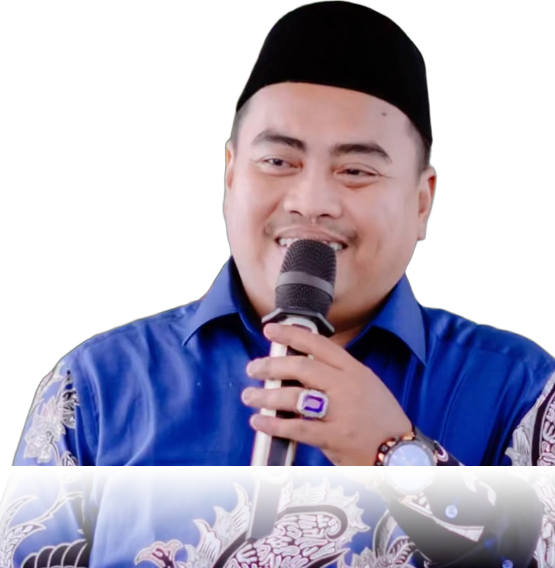
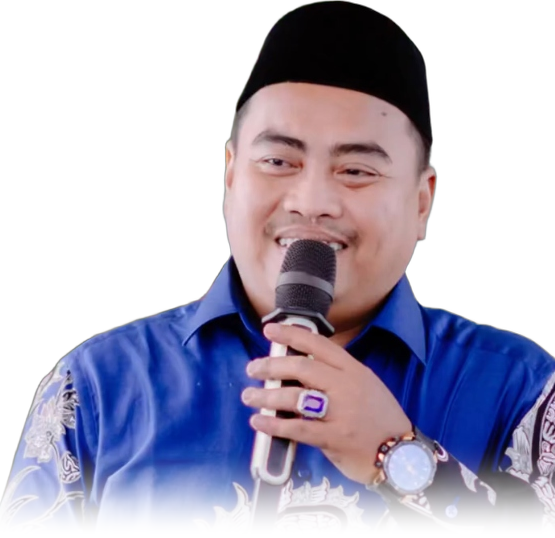
fix(pelindung): resolve uneven shadow and eliminate horizontal cut line with smooth cosine fade and calibrated drop-shadow

diff --git a/index.html b/index.html
@@ -410,7 +410,7 @@
 
             <!-- Figure Photo: Right (Mobile & Desktop Pop-out Zigzag) -->
             <div class="w-[40%] sm:w-[34%] md:w-[30%] flex justify-end z-20 pointer-events-none">
-              <img src="assets/pelindung/pelindung_saiful_falah.png?v=20261113e" 
+              <img src="assets/pelindung/pelindung_saiful_falah.png?v=20261113f" 
                    alt="Dr. KH. Saiful Falah, M.Pd.I" 
                    class="h-32 sm:h-44 md:h-56 lg:h-68 w-auto object-contain pelindung-figure-shadow select-none -mt-7 sm:-mt-10 md:-mt-14 transform transition-transform duration-300 group-hover:scale-105"
                    loading="lazy">
@@ -428,7 +428,7 @@
             
             <!-- Figure Photo: Left (Mobile & Desktop Pop-out Zigzag) -->
             <div class="w-[40%] sm:w-[34%] md:w-[30%] flex justify-start z-20 pointer-events-none">
-              <img src="assets/pelindung/pelindung_syamsul_rizal.png?v=20261113e" 
+              <img src="assets/pelindung/pelindung_syamsul_rizal.png?v=20261113f" 
                    alt="Dr. KH. Syamsul Rizal Mz, S.H.I., M.Pd.I" 
                    class="h-32 sm:h-44 md:h-56 lg:h-68 w-auto object-contain pelindung-figure-shadow-light select-none -mt-7 sm:-mt-10 md:-mt-14 transform transition-transform duration-300 group-hover:scale-105"
                    loading="lazy">
@@ -466,7 +466,7 @@
 
             <!-- Figure Photo: Right (Mobile & Desktop Pop-out Zigzag) -->
             <div class="w-[40%] sm:w-[34%] md:w-[30%] flex justify-end z-20 pointer-events-none">
-              <img src="assets/pelindung/pelindung_nuril_izzah.png?v=20261113e" 
+              <img src="assets/pelindung/pelindung_nuril_izzah.png?v=20261113f" 
                    alt="Ustadzah Hj. Nuril Izzah" 
                    class="h-32 sm:h-44 md:h-56 lg:h-68 w-auto object-contain pelindung-figure-shadow select-none -mt-7 sm:-mt-10 md:-mt-14 transform transition-transform duration-300 group-hover:scale-105"
                    loading="lazy">
@@ -484,7 +484,7 @@
             
             <!-- Figure Photo: Left (Mobile & Desktop Pop-out Zigzag) -->
             <div class="w-[40%] sm:w-[34%] md:w-[30%] flex justify-start z-20 pointer-events-none">
-              <img src="assets/pelindung/pelindung_ummu_hafsoh.png?v=20261113e" 
+              <img src="assets/pelindung/pelindung_ummu_hafsoh.png?v=20261113f" 
                    alt="Ustadzah Hj. Ummu Hafsoh" 
                    class="h-32 sm:h-44 md:h-56 lg:h-68 w-auto object-contain pelindung-figure-shadow-light select-none -mt-7 sm:-mt-10 md:-mt-14 transform transition-transform duration-300 group-hover:scale-105"
                    loading="lazy">
@@ -522,7 +522,7 @@
 
             <!-- Figure Photo: Right (Mobile & Desktop Pop-out Zigzag) -->
             <div class="w-[40%] sm:w-[34%] md:w-[30%] flex justify-end z-20 pointer-events-none">
-              <img src="assets/pelindung/pelindung_andri_zaelani.png?v=20261113e" 
+              <img src="assets/pelindung/pelindung_andri_zaelani.png?v=20261113f" 
                    alt="Ustadz Andri Noer Zaelani, M.Pd." 
                    class="h-32 sm:h-44 md:h-56 lg:h-68 w-auto object-contain pelindung-figure-shadow select-none -mt-7 sm:-mt-10 md:-mt-14 transform transition-transform duration-300 group-hover:scale-105"
                    loading="lazy">

diff --git a/css/style.css b/css/style.css
@@ -1246,9 +1246,9 @@ a.rounded-lg[class*="bg-white"][class*="h-12"], .campus-filter-btn.tab-btn:not(.
   box-shadow: 0 20px 45px -15px rgba(10, 30, 60, 0.2), 0 0 0 1px rgba(15, 46, 89, 0.08);
 }
 .pelindung-figure-shadow {
-  filter: drop-shadow(0 22px 28px rgba(0, 0, 0, 0.5));
+  filter: drop-shadow(0 10px 18px rgba(0, 0, 0, 0.42));
 }
 .pelindung-figure-shadow-light {
-  filter: drop-shadow(0 18px 24px rgba(15, 46, 89, 0.38));
+  filter: drop-shadow(0 8px 16px rgba(15, 46, 89, 0.25));
 }
 
